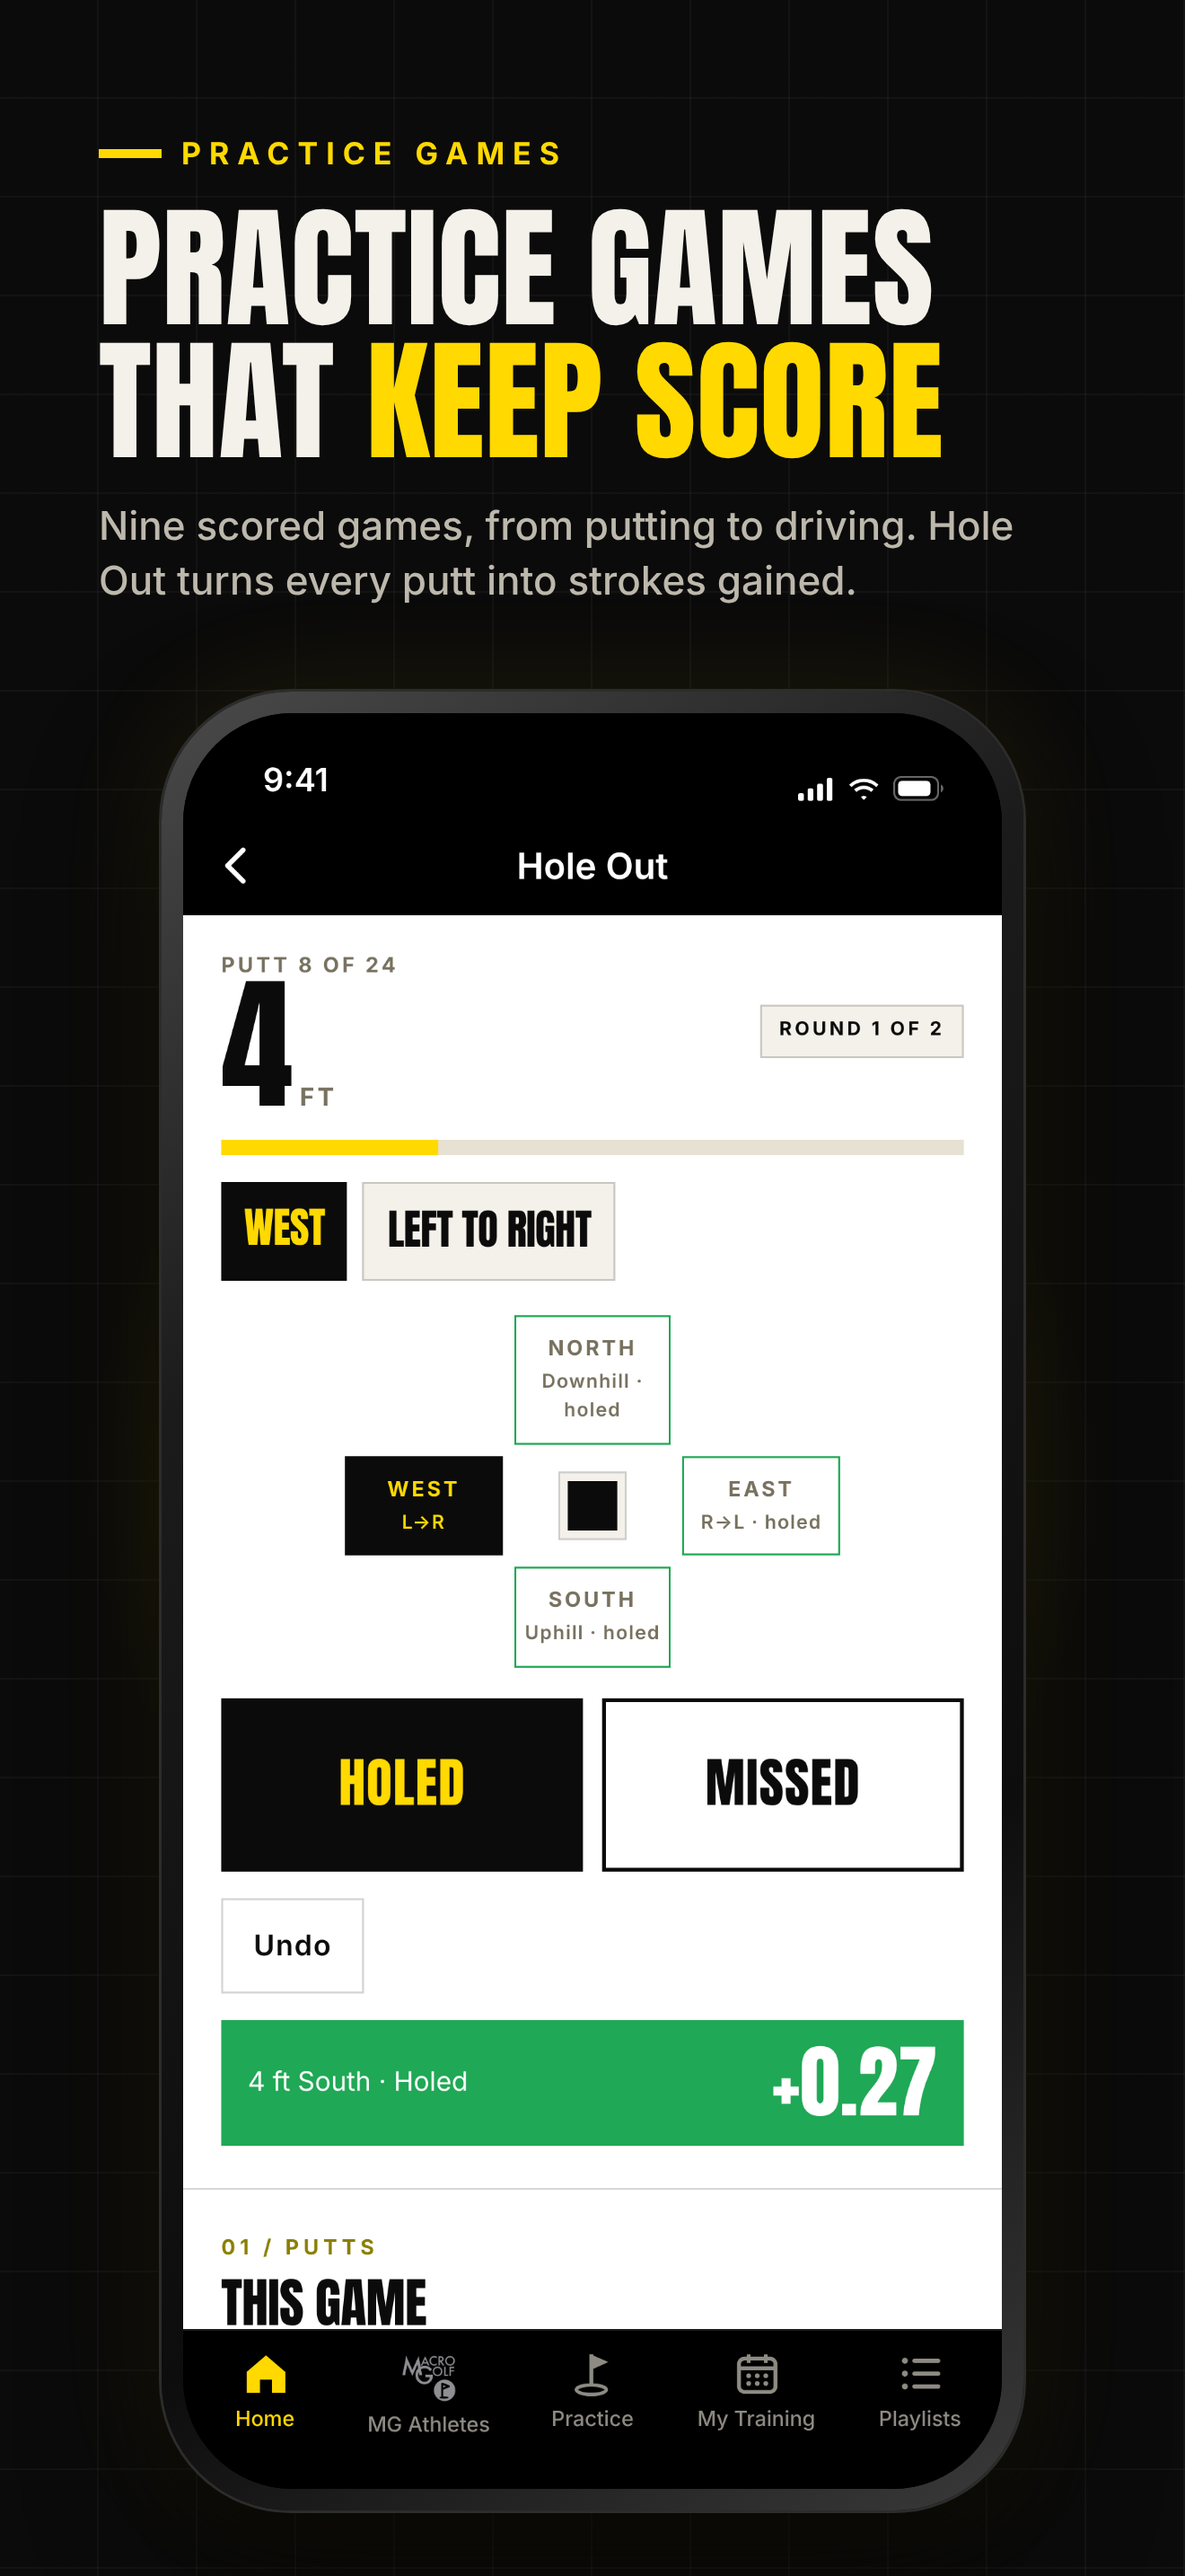
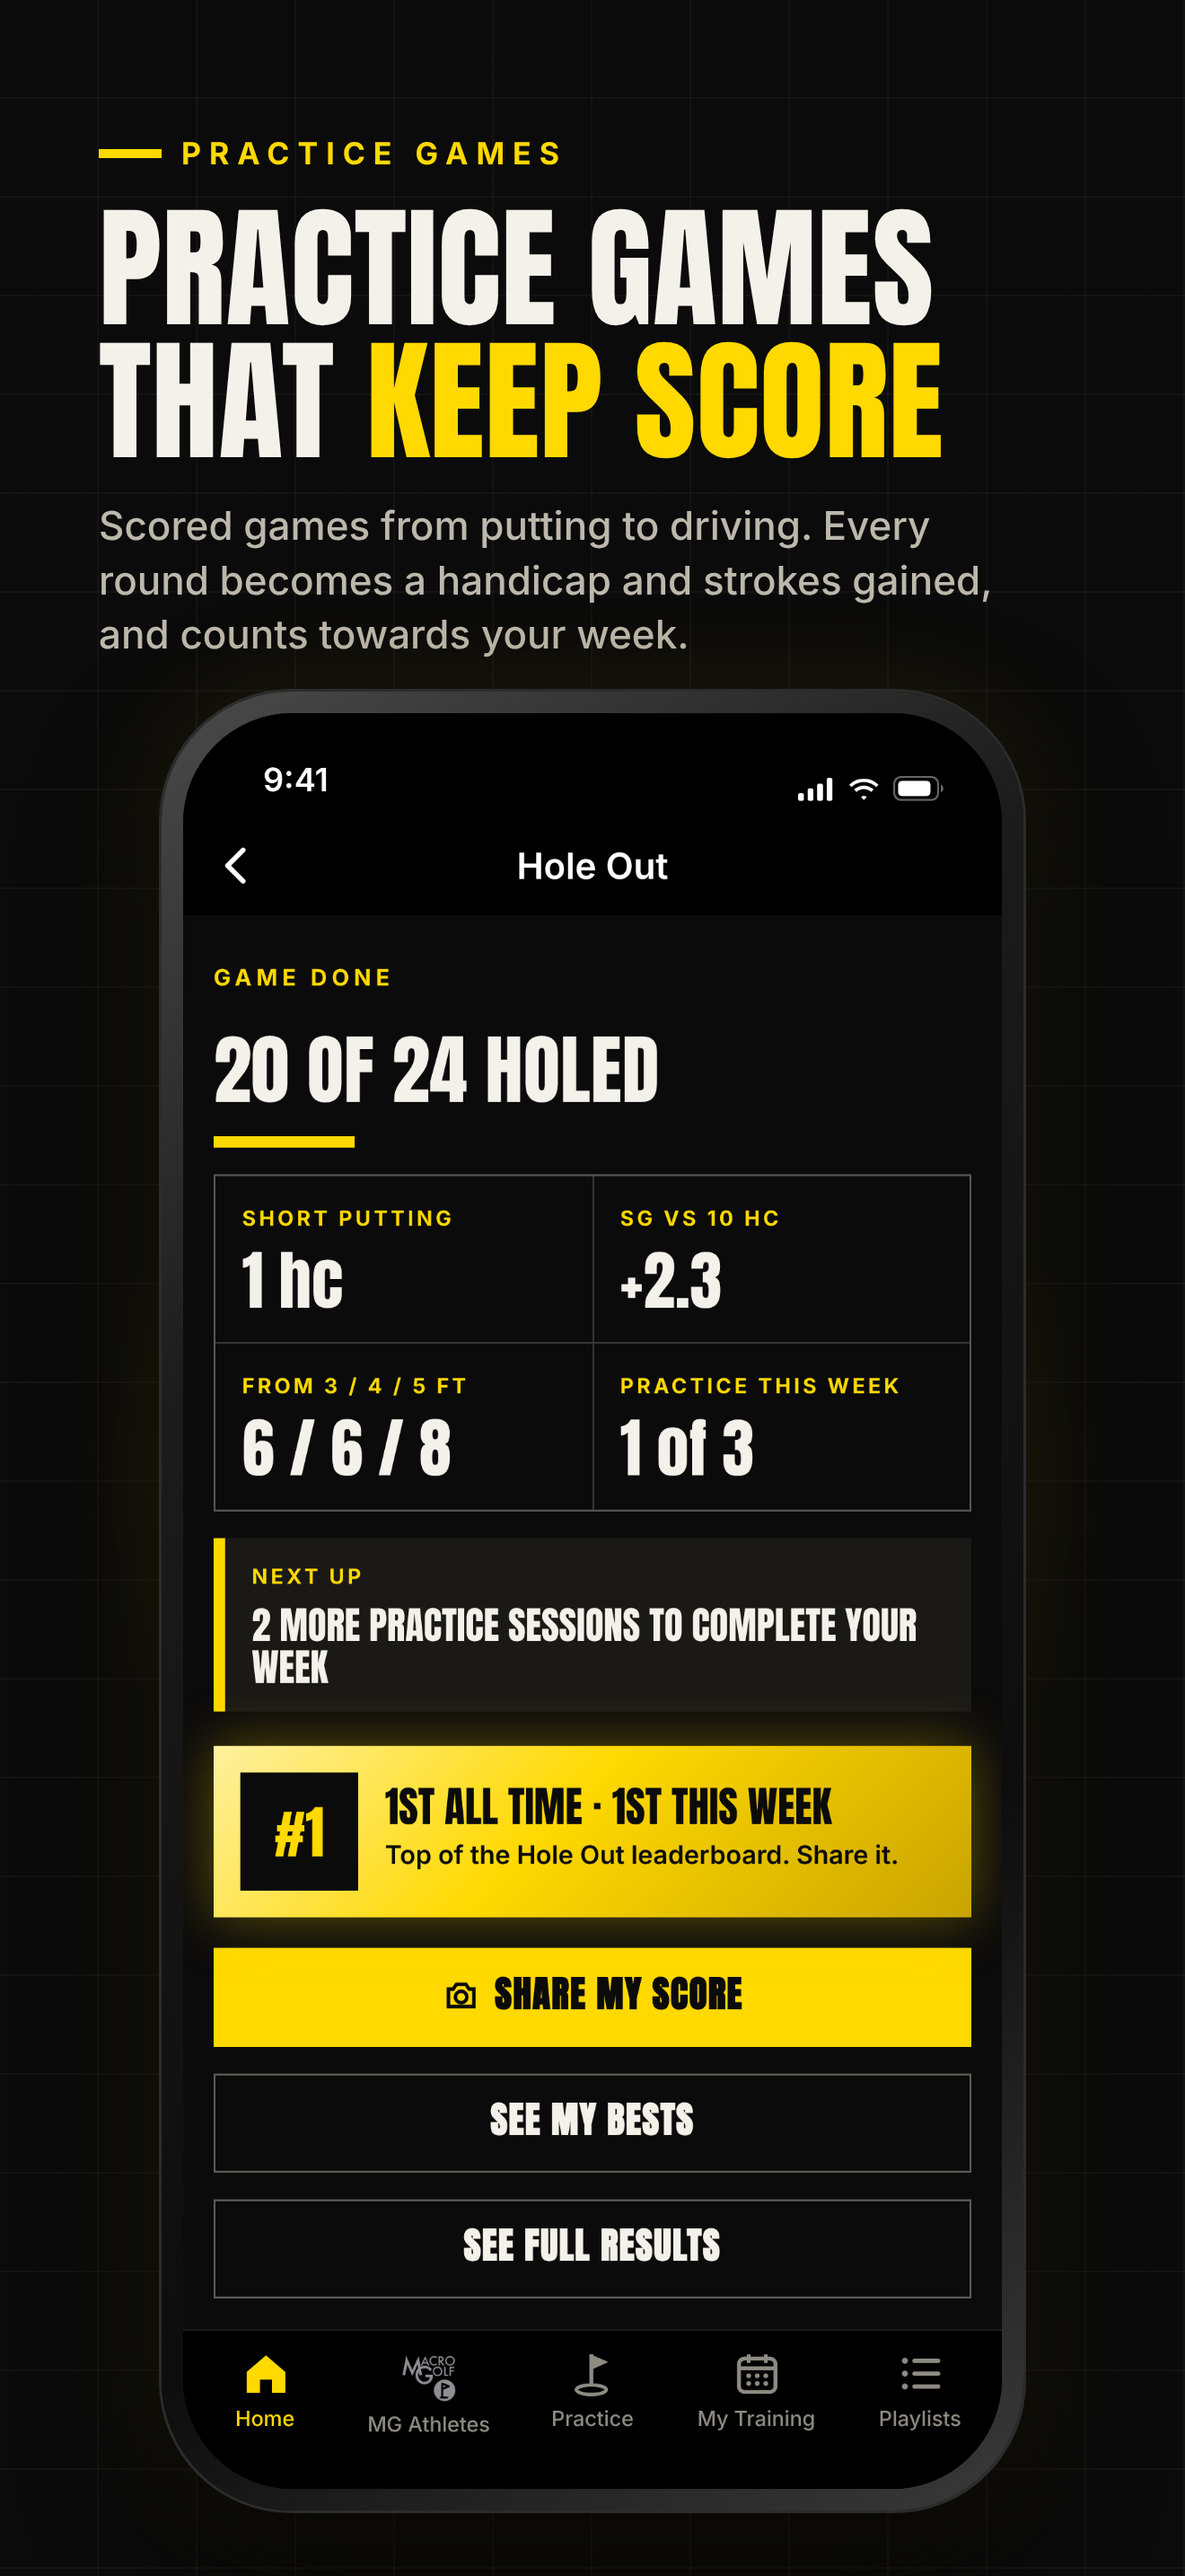
App Store pack update 3: dark slides 4, 5, 8 in every size (Joe)
Claude-Session: https://claude.ai/code/session_01DkSaFspKHERjZZRZYzDpGf

diff --git a/docs/for-joe-app-store-pack.md b/docs/for-joe-app-store-pack.md
@@ -2,6 +2,13 @@
 
 Everything is in `assets/app-store/` on this branch (`app-store-pack`). Please upload in VidApp (Joe only), then log it and delete this file.
 
+## Update 3 (13 Nov, 22:50): slides 4, 5 and 8 now dark
+Joe asked for slides 4, 5 and 8 to have the dark look like the rest. They are replaced in **every** folder: iPhone X, iPhone 8 (also the Android phone set), iPad, Android 10-inch tablet, and the 6.9in / 6.3in PNGs. The other slides are unchanged.
+- **Slide 4 'Practice games that keep score'**: the dark Hole Out game-done screen (20 of 24 holed, practice handicap, strokes gained, #1 on the leaderboard, Share my score). The line no longer says 'Nine scored games' (meeting: drop the fixed nine-games claim): "Scored games from putting to driving. Every round becomes a handicap and strokes gained, and counts towards your week."
+- **Slide 5 'Climb the leaderboard'**: the leaderboard on a solid dark background (no light game page showing through).
+- **Slide 8 'Move better. Swing faster.'**: Build My Plan, 'What is your goal?' question (dark). The game and training pages themselves are light in the app, so these are real dark screens from the app, not recoloured.
+To upload: replace slides 4, 5 and 8 in the iPhone X, iPhone 8 and Android phone sets; upload the full iPad set (7) and Android 10-inch tablet set (7), which already include the new 4, 5 and 8.
+
 ## What changed
 - **Slide 8 'Move better, swing faster'** now shows **Build My Plan** (My Training, Week 1 · Day 1 'Arm chop + upper body', with Demo and Swap). No more Pure Power. New line: "Build your own golf training plan for the gym or at home, with demo videos and easy swaps."
 - **Bottom tab bar on every slide** now reads **Home · MG Athletes · Practice · My Training · Playlists** (the live order). The plan screen's header is 'Your Practice Plan'.
